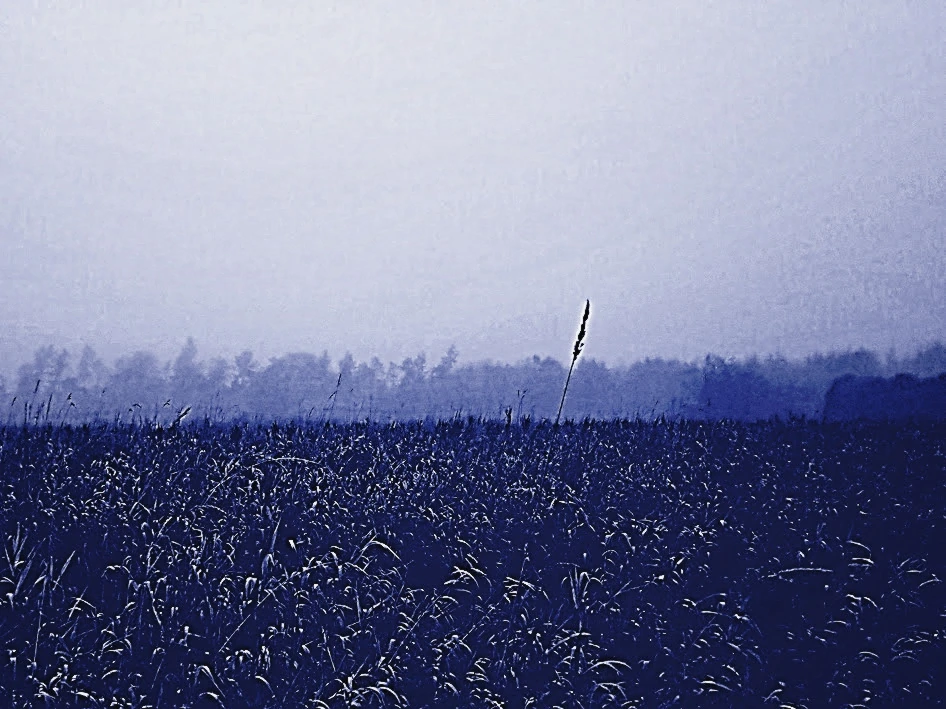
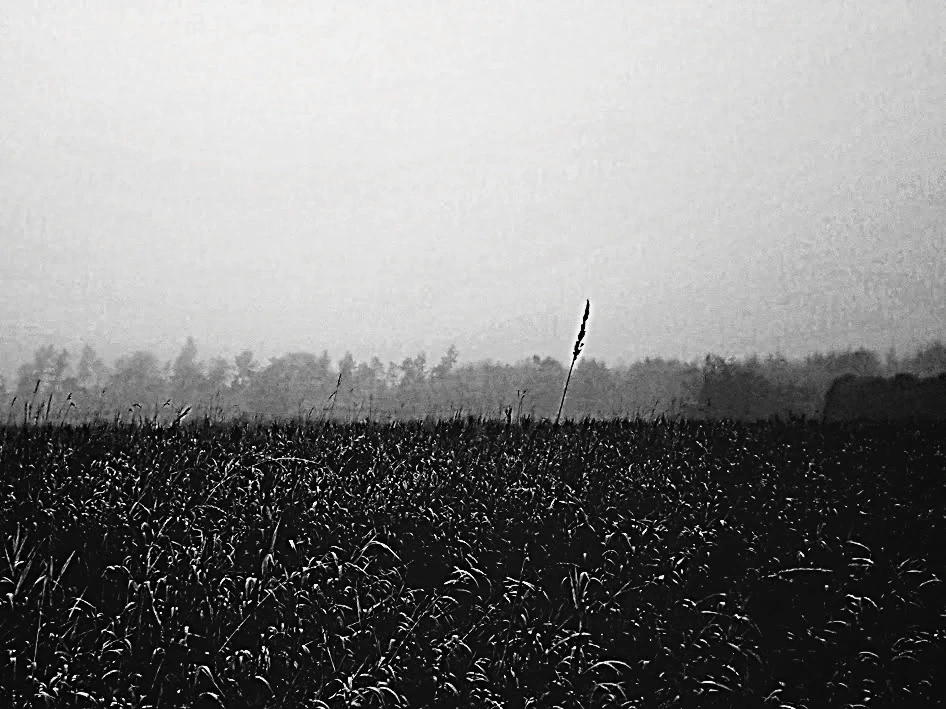
Convert Plate XXIX (One Stem) from blue to darkroom monochrome

diff --git a/plates.html b/plates.html
@@ -875,7 +875,7 @@ footer.colophon {
 
         <figure class="plate-card wide">
           <button type="button" class="plate-trigger" data-plate="28" aria-label="Inspect Plate XXIX">
-            <img src="assets/plates_book/23-one-stem.webp" width="946" height="709" loading="lazy" alt="Single tall reed rising out of deep Prussian-blue frosted grass into pale fog and a distant ghost treeline">
+            <img src="assets/plates_book/23-one-stem.webp" width="946" height="709" loading="lazy" alt="Single tall reed rising out of dark frosted grass into pale fog and a distant ghost treeline">
           </button>
           <figcaption class="plate-caption">
             <span class="plate-num">XXIX</span>
